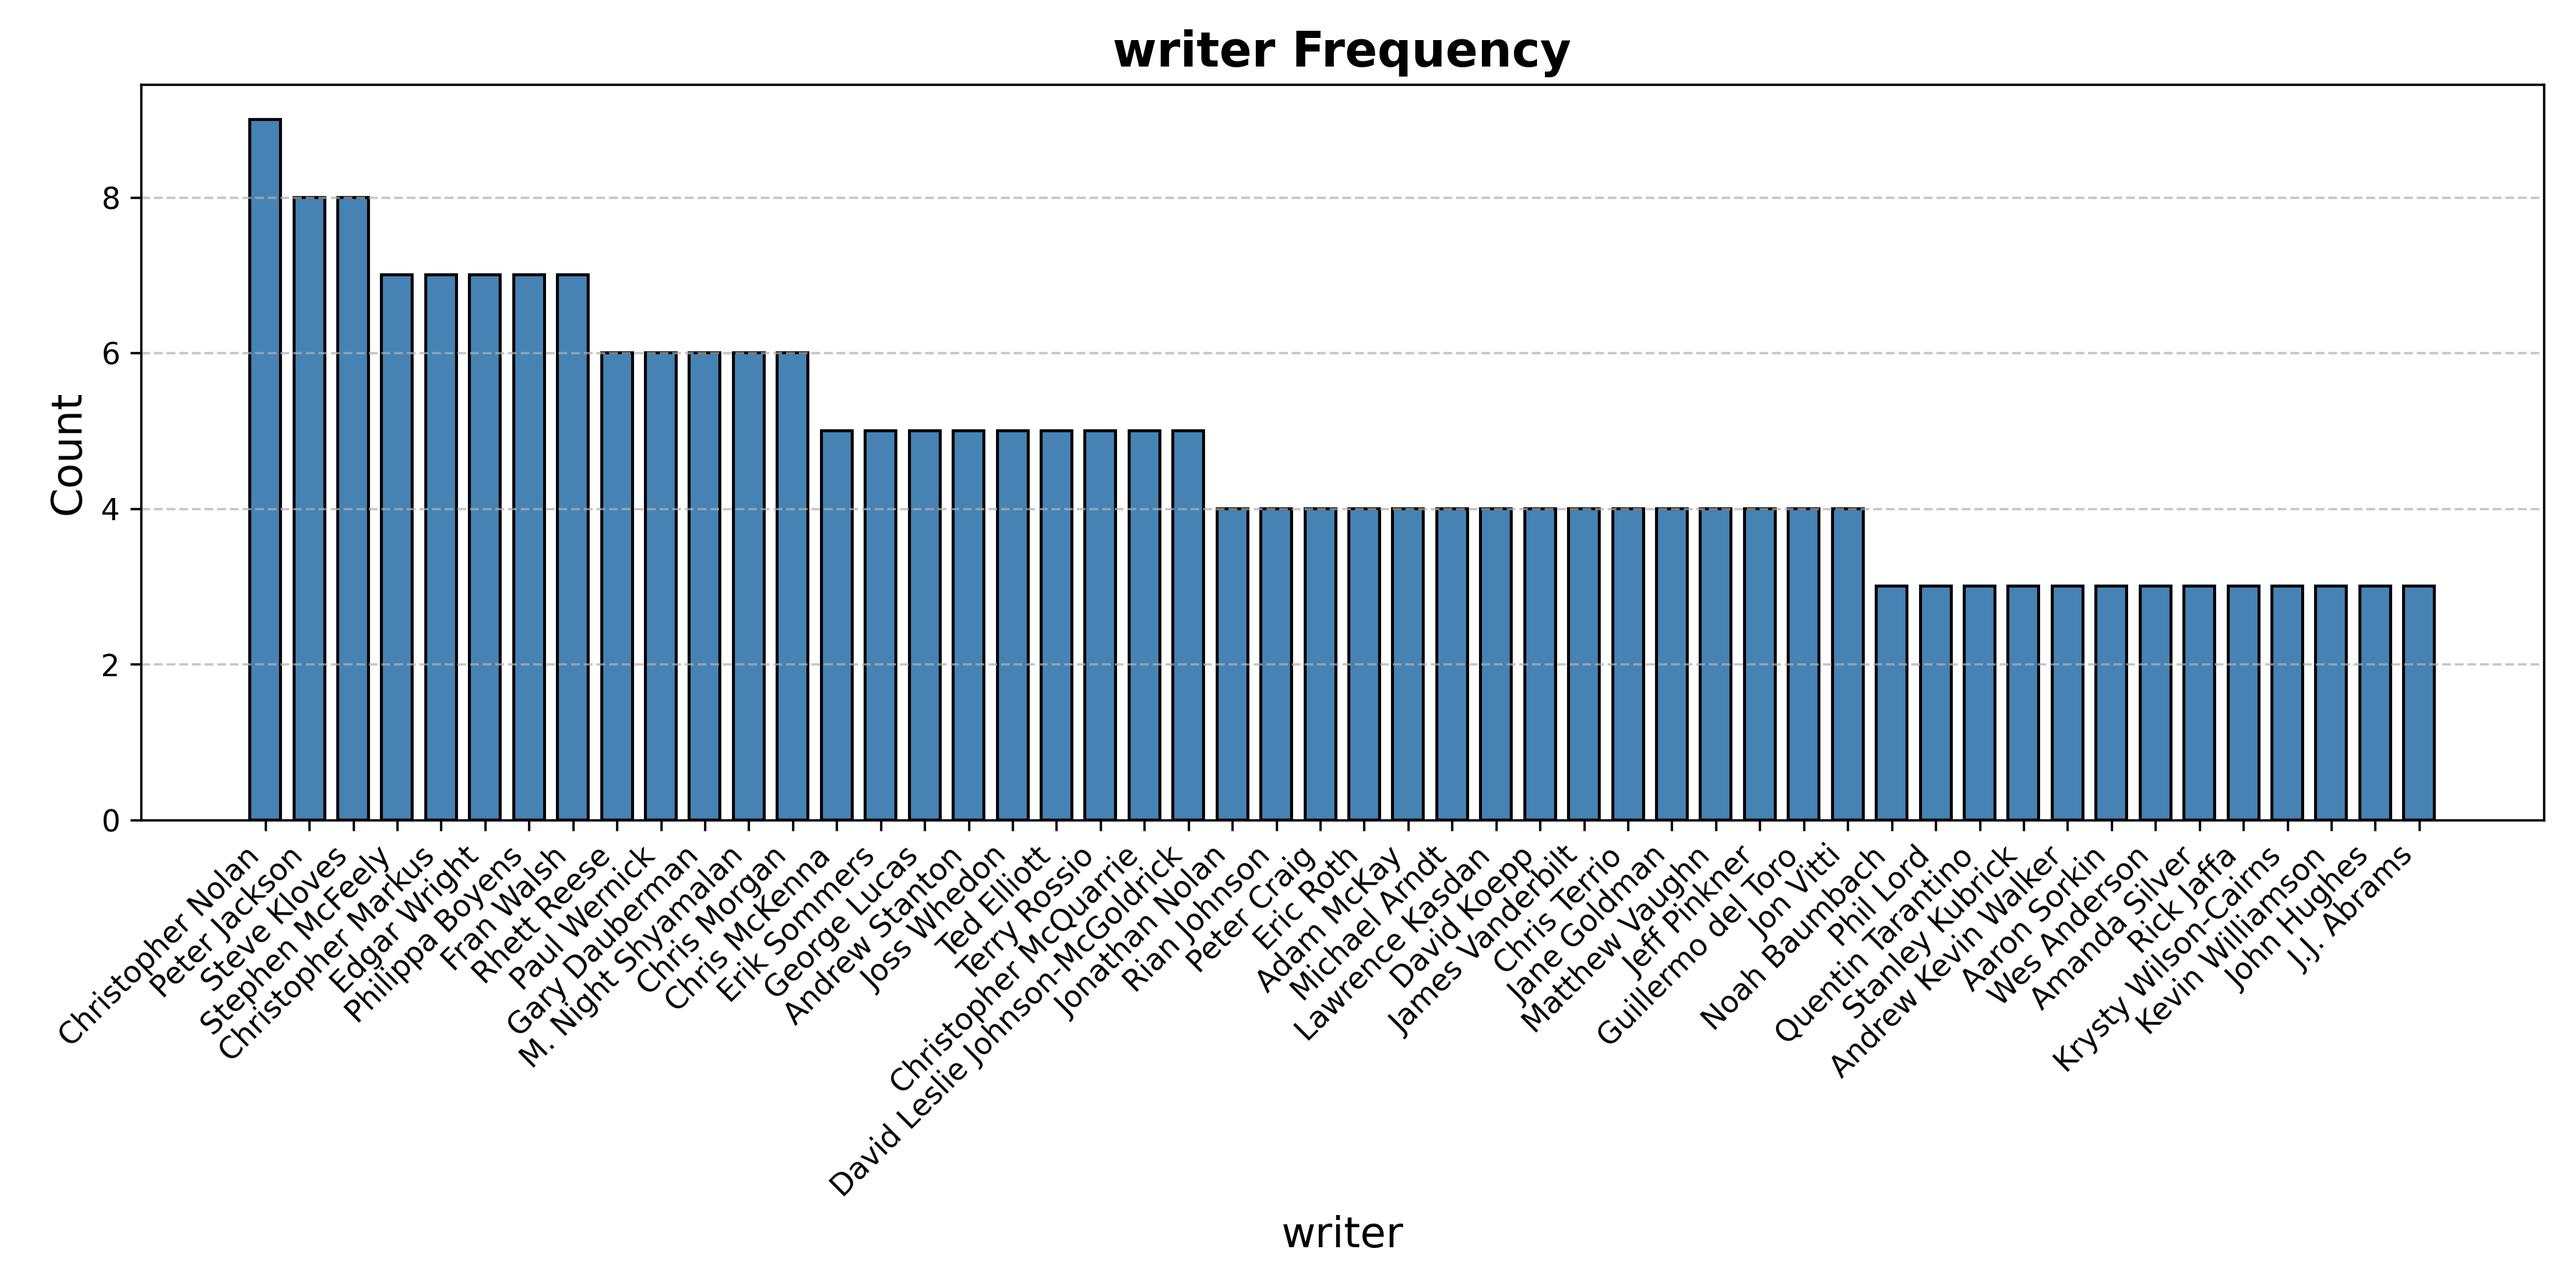
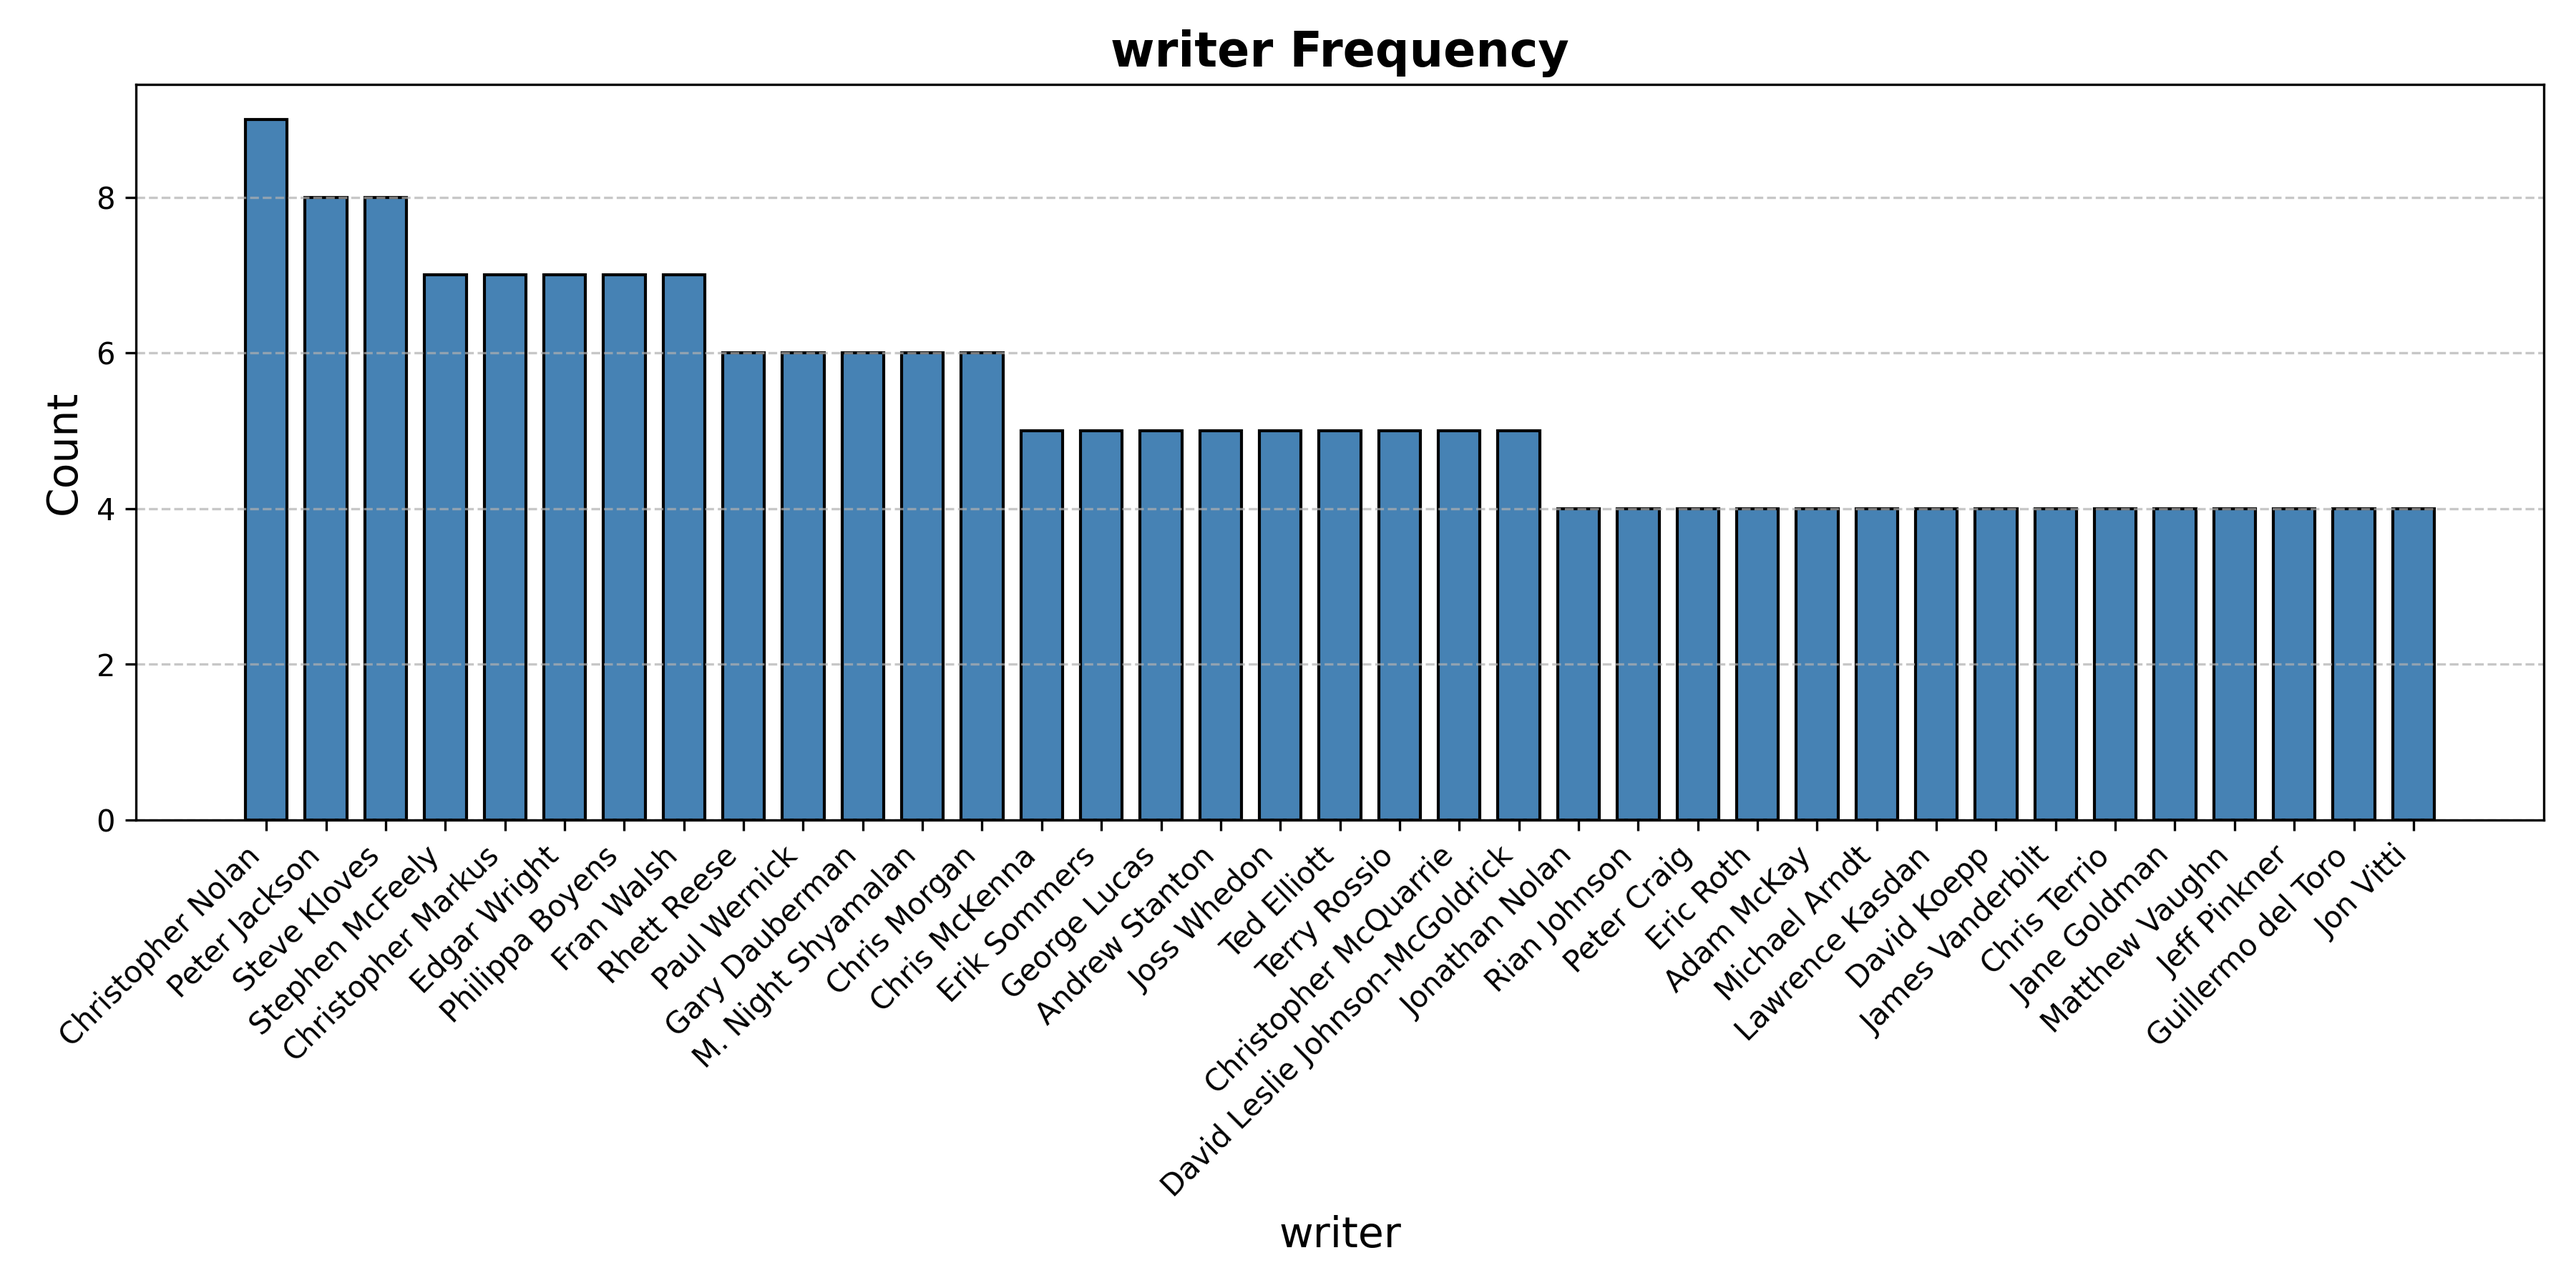
Improved Plotting

diff --git a/process_results.py b/process_results.py
@@ -86,10 +86,6 @@ def plot_people_bar_graph(people_counts, people_type):
     plt.xticks(rotation=45, ha="right", fontsize=10)
     plt.yticks(fontsize=10)
     plt.grid(axis="y", linestyle="--", alpha=0.7)
-    # for bar in bars:
-    #     height = bar.get_height()
-    #     plt.text(bar.get_x() + bar.get_width()/2, height + 0.5, str(height),
-    #              ha="center", va="bottom", fontsize=9)
     plt.tight_layout()
     plt.savefig(f"plots/{people_type}_frequency.png", dpi=300)
     plt.close()
@@ -191,19 +187,19 @@ def main_rated():
     director_counts = get_person_counts(df_rated["Directors"].copy())
     writer_counts = get_person_counts(df_rated["Writers"].copy())
     composer_counts = get_person_counts(df_rated["Composers"].copy())
-    print(f"The 20 actors I have seen the most movies with:\n{actor_counts.most_common()[:20]}")
-    print(f"The 20 directors I have seen the most movies with:\n{director_counts.most_common()[:20]}")
-    print(f"The 20 writers I have seen the most movies with:\n{writer_counts.most_common()[:20]}")
-    print(f"The 20 composers I have seen the most movies with:\n{composer_counts.most_common()[:20]}")
+    print(f"The 20 actors I have seen the most movies with:\n{actor_counts.most_common(20)}")
+    print(f"The 20 directors I have seen the most movies with:\n{director_counts.most_common(20)}")
+    print(f"The 20 writers I have seen the most movies with:\n{writer_counts.most_common(20)}")
+    print(f"The 20 composers I have seen the most movies with:\n{composer_counts.most_common(20)}")
 
     return None
 
 def main_all():
     df_all = load_all_dataframe()
 
-    # imdb_ratings = df_all["IMDbRating"]
-    # metascore = df_all["Metascore"]
-    # plot_all_ratings(imdb_ratings, metascore)
+    imdb_ratings = df_all["IMDbRating"]
+    metascore = df_all["Metascore"]
+    plot_all_ratings(imdb_ratings, metascore)
 
     plot_world_map(df_all)
 
@@ -213,14 +209,21 @@ def main_all():
     composer_counts = get_person_counts(df_all["Composers"].copy())
     lang_counts = get_person_counts(df_all["OriginalLanguage"].copy())
     coun_counts = get_person_counts(df_all["OriginCountry"].copy())
-    plot_people_bar_graph(actor_counts.most_common()[:50], "actor")
-    plot_people_bar_graph(director_counts.most_common()[:50], "director")
-    plot_people_bar_graph(writer_counts.most_common()[:50], "writer")
-    plot_people_bar_graph(composer_counts.most_common()[:50], "composer")
-    print(f"The 20 actors I have seen the most movies with:\n{actor_counts.most_common()[:20]}")
-    print(f"The 20 directors I have seen the most movies with:\n{director_counts.most_common()[:20]}")
-    print(f"The 20 writers I have seen the most movies with:\n{writer_counts.most_common()[:20]}")
-    print(f"The 20 composers I have seen the most movies with:\n{composer_counts.most_common()[:20]}\n")
+
+    filtered_actor_counts = [(actor, count) for actor, count in actor_counts.most_common() if count >= 10]
+    filtered_director_counts = [(director, count) for director, count in director_counts.most_common() if count >= 3]
+    filtered_writer_counts = [(writer, count) for writer, count in writer_counts.most_common() if count >= 4]
+    filtered_composer_counts = [(composer, count) for composer, count in composer_counts.most_common() if count >= 4]
+
+    plot_people_bar_graph(filtered_actor_counts, "actor")
+    plot_people_bar_graph(filtered_director_counts, "director")
+    plot_people_bar_graph(filtered_writer_counts, "writer")
+    plot_people_bar_graph(filtered_composer_counts, "composer")
+
+    print(f"The 20 actors I have seen the most movies with:\n{filtered_actor_counts}")
+    print(f"The 20 directors I have seen the most movies with:\n{filtered_director_counts}")
+    print(f"The 20 writers I have seen the most movies with:\n{filtered_writer_counts}")
+    print(f"The 20 composers I have seen the most movies with:\n{filtered_composer_counts}\n")
     print(f"The languages I have seen the most movies with:\n{lang_counts.most_common()}")
     print(f"The countries I have seen the most movies from:\n{coun_counts.most_common()}\n")
 
